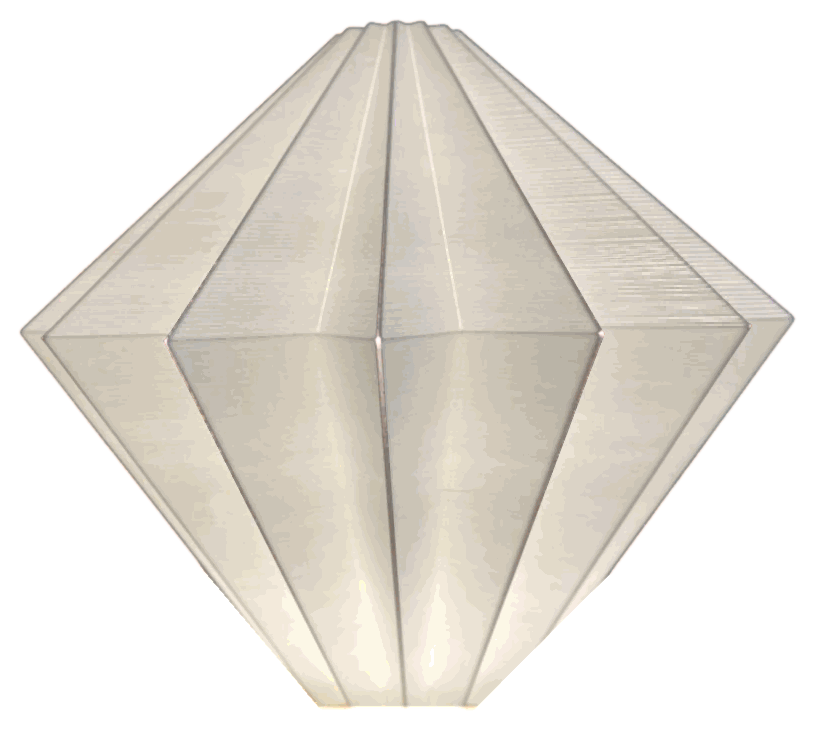
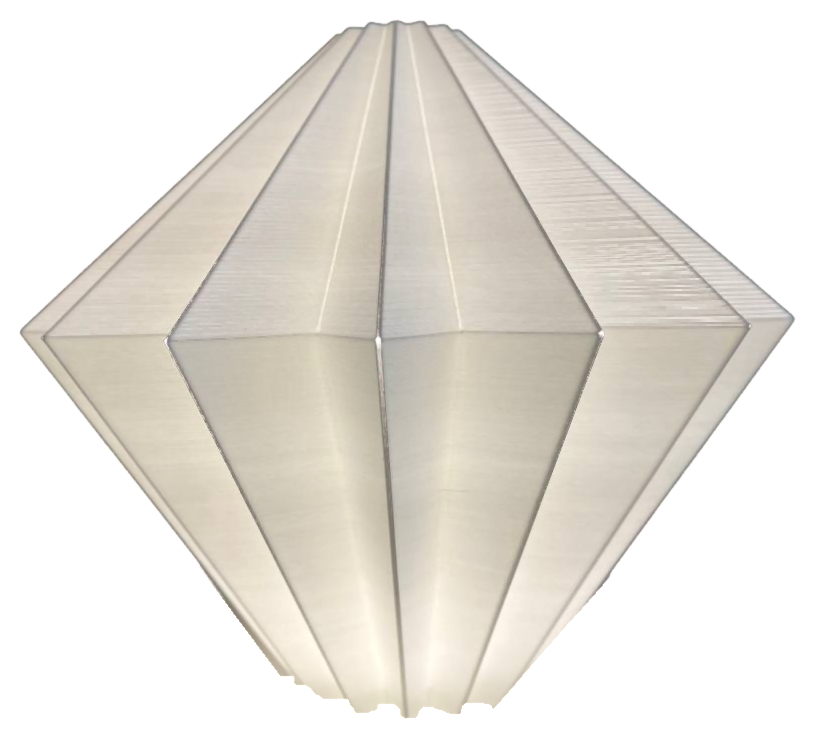
Starlight: taglio alla base lungo le pieghe, niente bande; chi siamo assestata
Il taglio alla base ora segue le V colonna per colonna (soglia sul giallo, mediana 21px): una retta lasciava sotto le punte una fascia piatta. Tolta la palette a 224 colori che creava bande verticali. Il .glb ha una versione in coda (?v=7) perche' il browser serviva la copia in cache; zoom minimo da 1.25 a 1.10 m. Chi siamo: foto del fondatore non ritagliata nella colonna destra, testo di 'Tecnologia e artigianato' tutto a sinistra.

diff --git a/chi-siamo.html b/chi-siamo.html
@@ -81,10 +81,7 @@
   <!-- INTRO -->
   <section class="section" style="border-bottom: 1px solid var(--border);">
     <div class="container">
-      <!-- stretch e non center: cosi' la foto parte dalla prima riga di testo e
-           finisce con l'ultima, invece di stare a meta' altezza. L'altezza la
-           detta la colonna di testo; l'immagine la riempie ritagliandosi. -->
-      <div class="grid-2" style="align-items: stretch; gap: 80px;">
+      <div class="grid-2" style="align-items: start; gap: 80px;">
         <div>
           <p style="font-size:18px; color:var(--accent2); line-height:1.8; margin-bottom:24px;">
             Shapeless nasce dall'incontro tra architettura, ricerca sulla forma e fabbricazione digitale.
@@ -103,15 +100,8 @@
             e la sperimentazione.
           </p>
         </div>
-        <!-- ⚠ La foto e' in posizione assoluta dentro una colonna relativa, e
-             non e' un vezzo: con l'immagine nel flusso normale e' LEI a dettare
-             l'altezza della riga (height:100% su un contenitore senza altezza
-             propria ricade sulle proporzioni native), quindi restava piu' alta
-             del testo per quanto si mettesse "stretch". Togliendola dal flusso
-             l'altezza la decide la colonna di testo, e la foto la riempie
-             ritagliandosi: parte con la prima riga, finisce con l'ultima. -->
-        <div style="position:relative; align-self:stretch; min-height:320px;">
-          <img src="images/_DSC2299.jpg" alt="Angelo Larecchiuta, fondatore Shapeless" style="position:absolute; inset:0; width:100%; height:100%; object-fit:cover; object-position:center 26%; border-radius:2px; display:block;">
+        <div>
+          <img src="images/_DSC2299.jpg" alt="Angelo Larecchiuta, fondatore Shapeless" style="width:100%; height:auto; border-radius:2px; display:block;">
         </div>
       </div>
     </div>
@@ -120,12 +110,13 @@
   <!-- APPROCCIO -->
   <section class="section" style="border-bottom: 1px solid var(--border);">
     <div class="container">
+      <!-- Titolo e testo stanno nella stessa colonna, quella di sinistra: si
+           incolonnano con il testo dell'intro qui sopra e la colonna di destra
+           resta libera, come nel resto della pagina. -->
       <div class="grid-2" style="align-items: start; gap: 80px;">
         <div>
           <p class="label">Il nostro approccio</p>
-          <h2>Tecnologia e <strong>artigianato.</strong></h2>
-        </div>
-        <div>
+          <h2 class="mb-24">Tecnologia e <strong>artigianato.</strong></h2>
           <p>
             La stampa 3D ci permette di progettare senza i limiti delle forme convenzionali e di
             produrre solo ciò che serve, quando serve.
@@ -139,6 +130,7 @@
           </p>
           <p class="label" style="margin-top:32px;">Artigianato 4.0 · Sostenibilità · Design</p>
         </div>
+        <div></div>
       </div>
     </div>
   </section>

diff --git a/prodotto-starlight.html b/prodotto-starlight.html
@@ -366,7 +366,7 @@
                 camera-orbit="20deg 78deg 0.85m"
                 camera-target="0m 0.136m 0m"
                 min-camera-orbit="auto 30deg 0.66m"
-                max-camera-orbit="auto 92deg 1.25m"
+                max-camera-orbit="auto 92deg 1.10m"
                 field-of-view="28deg"
                 min-field-of-view="20deg"
                 shadow-intensity="0"
@@ -764,7 +764,11 @@
        colore, quindi non c'e' niente da tenere separato. Il numero nel nome
        serve lo stesso: se la geometria cambia mantenendo il nome, il browser
        puo' servire il file vecchio che ha in memoria. */
-    var MODELLO = 'models-web/starlight1.glb';
+    /* ⚠ La versione in coda non e' decorativa. Il .glb sta allo stesso indirizzo
+     da settimane e il browser se lo tiene in cache anche dopo un aggiornamento:
+     si finiva per guardare il modello di ieri e dare la colpa al modello di
+     oggi. Alzare questo numero a ogni ricostruzione del .glb. */
+    var MODELLO = 'models-web/starlight1.glb?v=7';
     function fileDelColore() { return MODELLO; }
 
     /* Il visualizzatore 3D (~300 KB) non viene caricato all'apertura della
